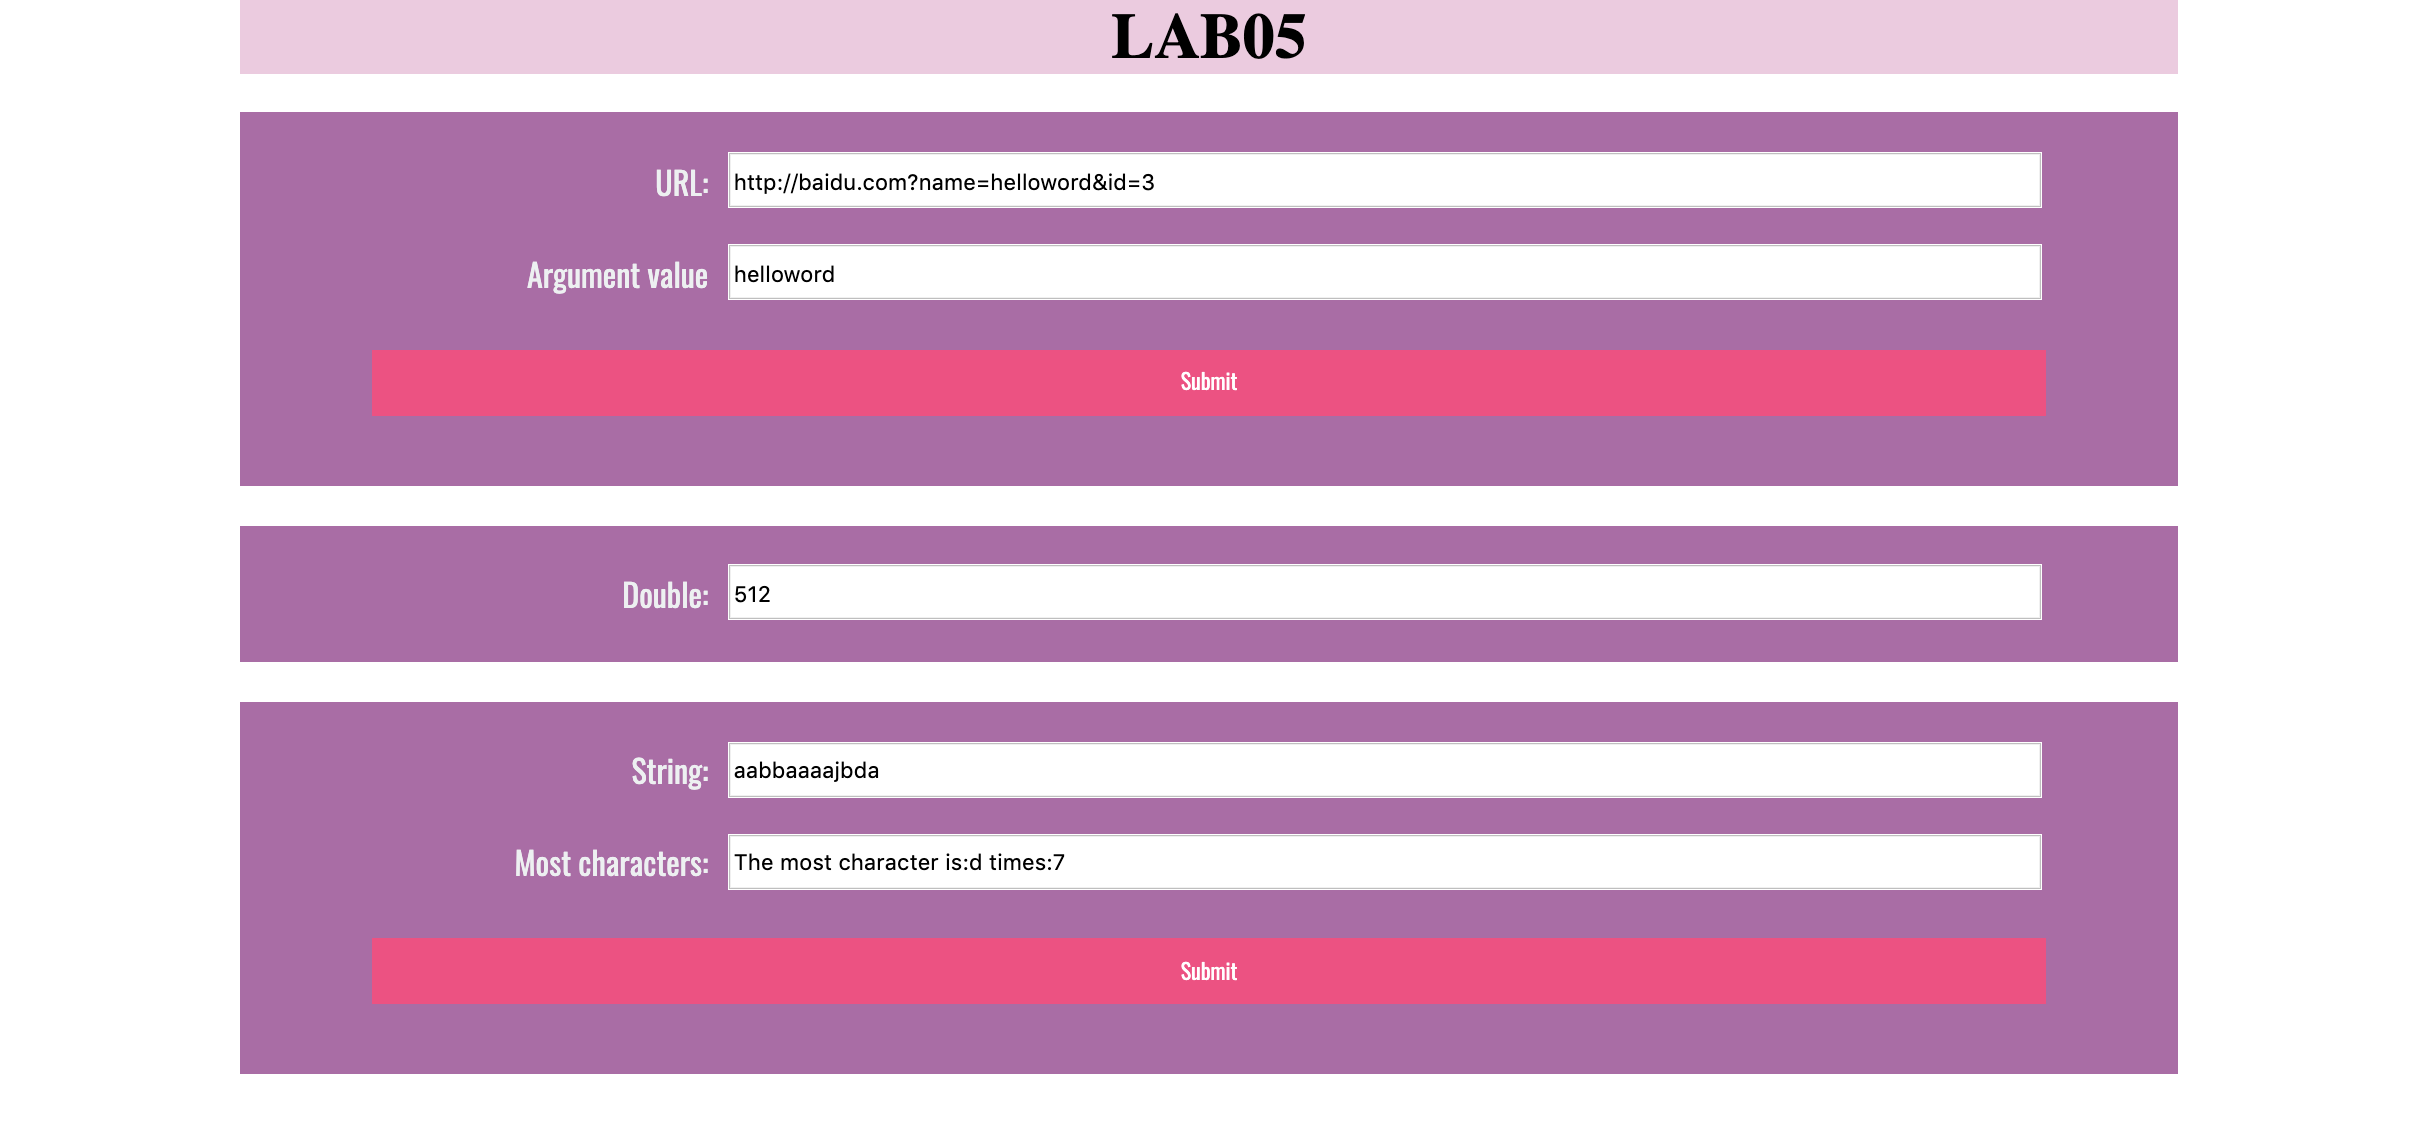
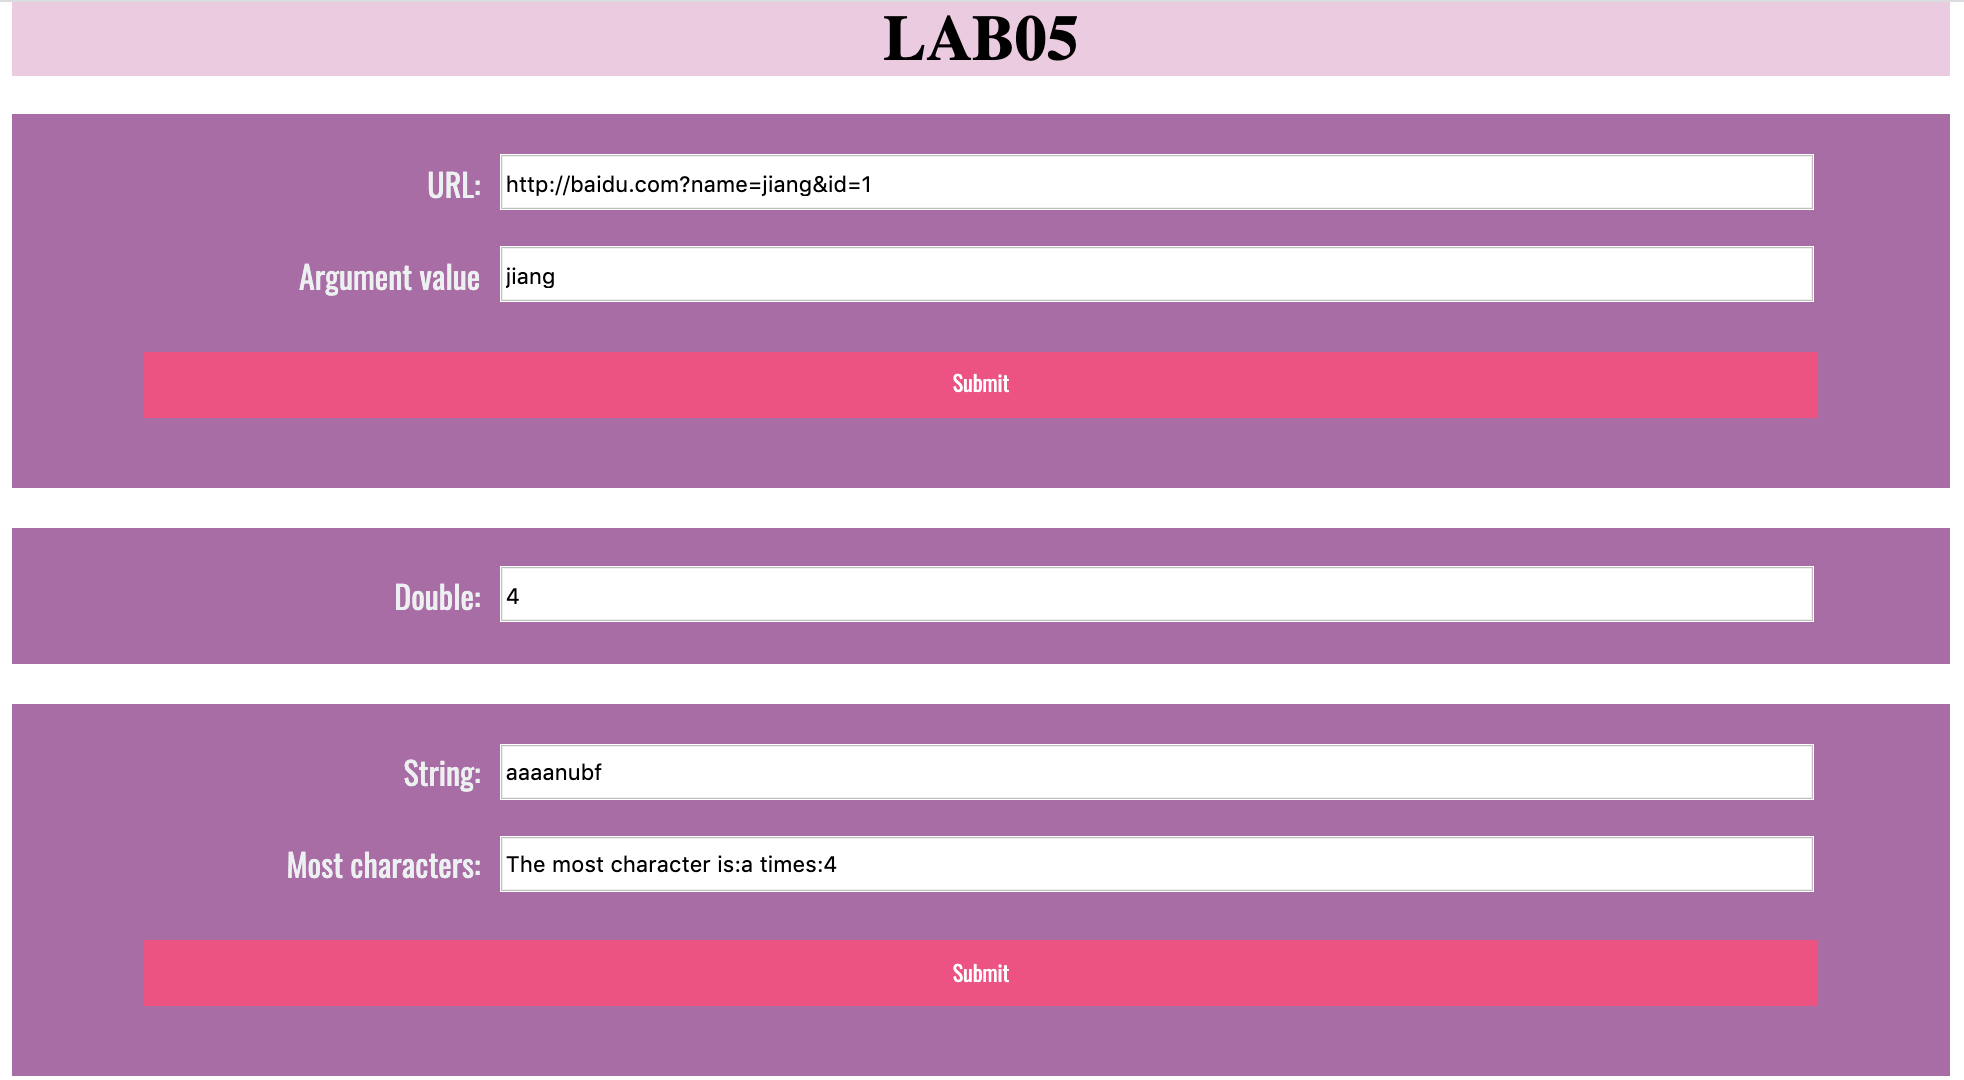
delete bug

diff --git a/lab5/js/lab05.js b/lab5/js/lab05.js
@@ -48,7 +48,7 @@ window.onload = function timeTest(){
             count++;
         }
     },5000);
-};di
+};
 //3. 判断输入框most里出现最多的字符，并统计出来。统计出是信息在most_result输入框内以"The most character is:" + index + " times:" + max的形式显示。
 //如果多个出现数量一样则选择一个即可。
 //请仅在arrSameStr函数内写代码。
@@ -57,7 +57,7 @@ window.onload = function timeTest(){
 let most = document.getElementById("most");
 let result = document.getElementById("most-result");
 let most_submit = document.getElementById("most_submit");
-most_submit.addEventListener('click',arrSameStr);
+// most_submit.addEventListener('click',arrSameStr);
 function arrSameStr(){
     let most_string = most.value+"";
     let array = {};
@@ -77,5 +77,5 @@ function arrSameStr(){
             index = a;
         }
     }
-    result.value = "The most character is:" + a + " times:"+max_time;
+    result.value = "The most character is:" + index + " times:"+max_time;
 }
